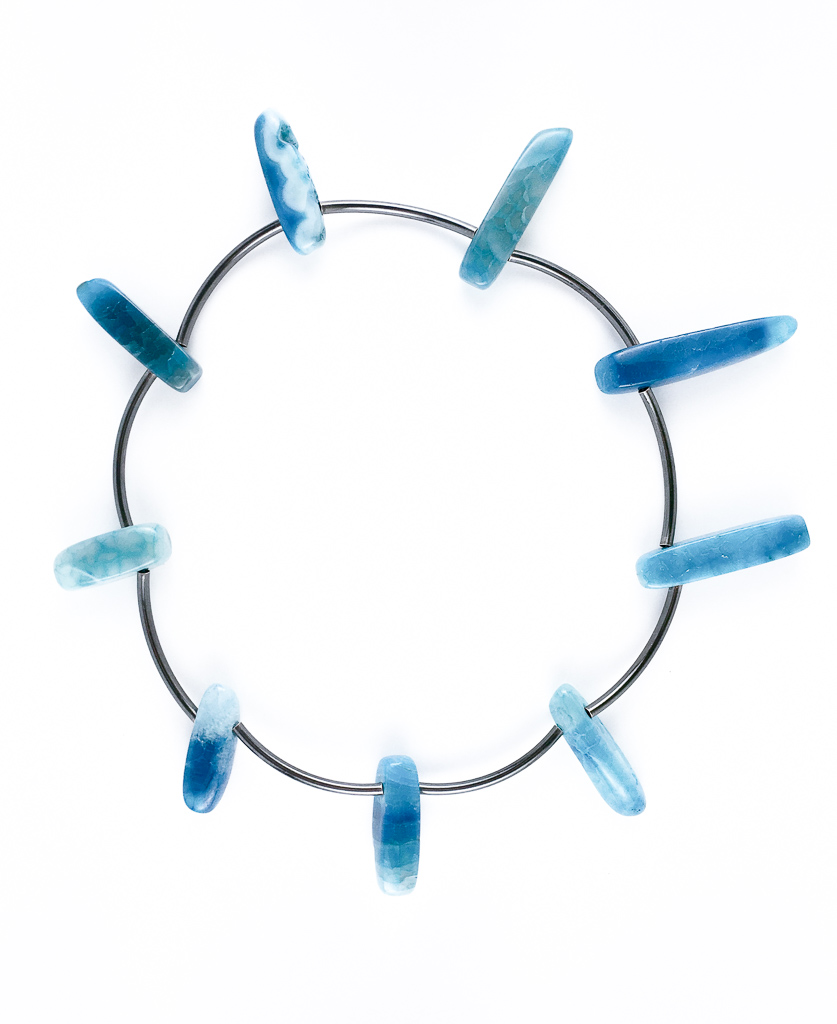
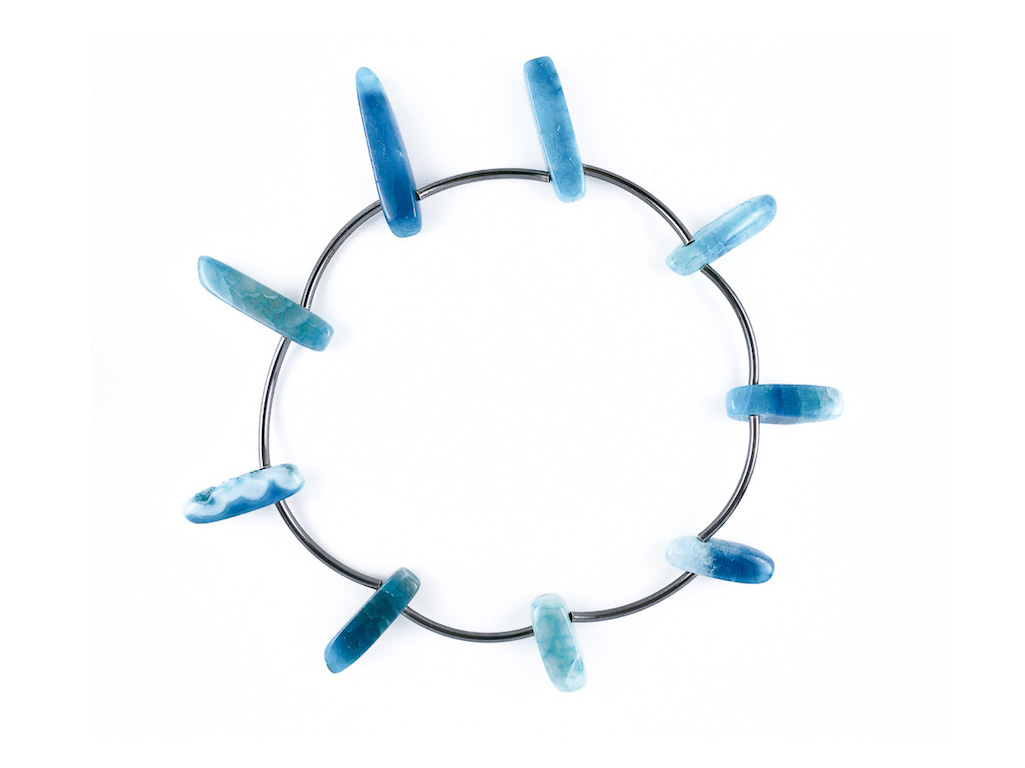
update jewelry pieces

Changed region(s): [[0.0621, 0.0625, 0.963, 0.9062]]

diff --git a/_includes/buy-button.html b/_includes/buy-button.html
@@ -1,10 +1,10 @@
 
 <button
     class="snipcart-add-item"
-    data-item-id="{{ page.id }}"
-    data-item-name="{{ page.title }}"
-    data-item-price="{{ page.price }}"
-    data-item-url="{{ page.url }}"
-    data-item-description="{{ page.description }}">
+    data-item-id="{{ products.id }}"
+    data-item-name="{{ products.title }}"
+    data-item-price="{{ products.price }}"
+    data-item-url="{{ products.url }}"
+    data-item-description="{{ products.description }}">
     Buy Now!
 </button>

diff --git a/_includes/product.html b/_includes/product.html
@@ -5,7 +5,7 @@
       <li class="products-list">
           <a href="{{ products.url }}"><img class="product-image-span" src="assets/media/{{ products.image }}" ></a>
         <a href="{{ products.url }}"><p>{{ products.title }}</p></a>
-        <p> Prices: {{ products.price }} </p>
+        <p> Prices: ${{ products.price }}.00 </p>
         <p> {{ products.description }} </p>
         {% include buy-button.html %}
       </li>

diff --git a/style.css b/style.css
@@ -110,7 +110,7 @@ a.active {
 /* styling of Site wide objects */
 
 button {
-background-color: white;
+background-color: gold;
     border: none;
     color: black;
     padding: 13px 29px;
@@ -224,8 +224,8 @@ ul.products-grid {
 }
 
 .product-image-span {
-width: 20vw;
-image-orientation: 270deg;
+width: 100%;
+margin-bottom: 25px;
 }
 
 

diff --git a/_products/Copper-Quartz-Necklace.md b/_products/Copper-Quartz-Necklace.md
@@ -1,13 +1,13 @@
 ---
 layout: products
-title: Pearl Earrings 01
-image: DSC_9342_1.jpg
-price: 30
-description: Small cute earrings with little pealrs and golden metal loops.
-id: 2
-type:
-  - Pearl
-  - Earrings
+title: Copper Quartz Necklace
+image: IMG_6967.jpg
+price: 65
+description: Orange Quartz necklace with copper tube spacer beads.
+id: 4
+type:  
+  - Necklace
+  - Orange
 ---
 
 “All idiots,” Gustave Flaubert once said about architects - “they always forget to put in the stairs.” While another man, Friedrich Mielke, noted stair researcher born in 1921, established an Institute for Stair Research in Konstein,

diff --git a/_products/Rainbow-Crystal-Necklace.md b/_products/Rainbow-Crystal-Necklace.md
@@ -1,13 +1,13 @@
 ---
 layout: products
-title: Pearl Earrings 06
-image: DSC_9342_1.jpg
-price: 30
-description: Small cute earrings with little pealrs and golden metal loops.
+title: Rainbow Crystal Necklace
+image: IMG_6944.jpg
+price: 80
+description: Glistening rainbow crystals with dark gray metal beads.
 id: 2
-type:  
-  - Pearl
-  - Earrings
+type:
+  - Necklace
+  - Rainbow
 ---
 
 “All idiots,” Gustave Flaubert once said about architects - “they always forget to put in the stairs.” While another man, Friedrich Mielke, noted stair researcher born in 1921, established an Institute for Stair Research in Konstein,

diff --git a/_products/Black-Wood-Necklace.md b/_products/Black-Wood-Necklace.md
@@ -1,13 +1,13 @@
 ---
 layout: products
-title: Pearl Earrings 05
-image: DSC_9342_1.jpg
-price: 30
-description: Small cute earrings with little pealrs and golden metal loops.
-id: 2
+title: Black Wood Necklace
+image: IMG_6963.jpg
+price: 90
+description: Naturally shaped black wooden beads separated by dark gray metal tubes.
+id: 10
 type:    
-  - Pearl
-  - Earrings
+  - Necklace
+  - Black
 ---
 
 

diff --git a/_products/White-Quartz-Bracelet.md b/_products/White-Quartz-Bracelet.md
@@ -1,13 +1,14 @@
 ---
 layout: products
-title: Pearl Earrings 04
-image: DSC_9342_1.jpg
-price: 30
-description: Small cute earrings with little pealrs and golden metal loops.
-id: 2
+title: White Quartz Bracelet
+image: IMG_6956.jpg
+price: 45
+description: A bracelet of white quartz cubes separated by silver tubes.
+id: 9
 type:   
-  - Pearl
-  - Earrings
+  - Bracelet
+  - White
+  - Silver
 ---
 
 

diff --git a/_products/White-Marble-Necklace.md b/_products/White-Marble-Necklace.md
@@ -1,13 +1,13 @@
 ---
 layout: products
-title: Pearl Earrings 03
-image: DSC_9342_1.jpg
-price: 30
-description: Small cute earrings with little pealrs and golden metal loops.
-id: 2
+title: White Marble Necklace
+image: IMG_6955.jpg
+price: 60
+description: Slender white marble beads, spaced out with dark gray metal tubes.
+id: 7
 type:   
-  - Pearl
-  - Earrings
+  - Necklace
+  - White
 ---
 
 

diff --git a/_products/Dark-Blue-Crystal-Necklace.md b/_products/Dark-Blue-Crystal-Necklace.md
@@ -1,13 +1,14 @@
 ---
 layout: products
-title: Pearl Earrings 02
-image: DSC_9342_1.jpg
-price: 30
-description: Small cute earrings with little pealrs and golden metal loops.
+title: Dark Blue Crystal Necklace
+image: IMG_6959.jpg
+price: 70
+description: Dark Blue crystal necklace with dark gray metal spacers. 
 id: 3
 type:
-  - Pearl
-  - Earrings
+  - Necklace
+  - Crystal
+  - Blue
 ---
 
 

diff --git a/_products/Blue-Quartz-Necklace.md b/_products/Blue-Quartz-Necklace.md
@@ -1,13 +1,14 @@
 ---
 layout: products
-title: Pearl Earrings
-image: DSC_9342_1.jpg
-price: 30
-description: Small cute earrings with little pealrs and golden metal loops.
+title: Blue Quartz Necklace
+image: IMG_6940.jpg
+price: 70
+description: Choker necklace with skinny long blue quartz and dark gray spacer beads.
 id: 2
 type:
-  - Earrings
-
+  - Choker
+  - Necklace
+  - Blue
 ---
 
 

diff --git a/_products/Red-Coral-Necklace.md b/_products/Red-Coral-Necklace.md
@@ -1,11 +1,13 @@
 ---
 layout: products
-title: Pearl Earrings0
-image: DSC_9342_1.jpg
-price: 12.99
+title: Red Coral Necklace
+image: IMG_6943.jpg
+price: 60
+description: Red coral beaded necklace with dark grey spacer beads.
+id: 2
 categories:   
-  - Pearl
-  - Earrings
+  - Necklace
+  - Red
 ---
 
 
